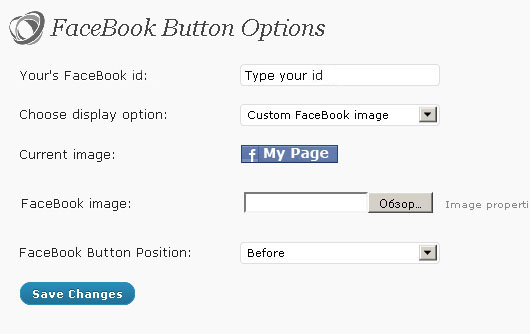
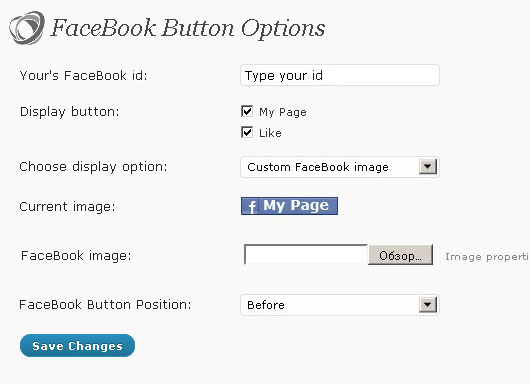
V2.10 - Added a possibility to turn off the display of the buttons. Turkish language file is added to the plugin. The bug with upload custom image for button is fixed.
git-svn-id: https://plugins.svn.wordpress.org/facebook-button-plugin/trunk@527401 b8457f37-d9ea-0310-8a92-e5e31aec5664

diff --git a/facebook-button-plugin.php b/facebook-button-plugin.php
@@ -4,7 +4,7 @@ Plugin Name: Facebook Button Plugin
 Plugin URI:  http://bestwebsoft.com/plugin/
 Description: Put Facebook Button in to your post.
 Author: BestWebSoft
-Version: 2.09
+Version: 2.10
 Author URI: http://bestwebsoft.com/
 License: GPLv2 or later
 */
@@ -44,7 +44,8 @@ if( ! function_exists( 'bws_add_menu_render' ) ) {
 			array( 'gallery-plugin\/gallery-plugin.php', 'Gallery', 'http://wordpress.org/extend/plugins/gallery-plugin/', 'http://bestwebsoft.com/plugin/gallery-plugin/', '/wp-admin/plugin-install.php?tab=search&type=term&s=Gallery+Plugin+bestwebsoft&plugin-search-input=Search+Plugins', '' ),
 			array( 'adsense-plugin\/adsense-plugin.php', 'Google AdSense Plugin', 'http://wordpress.org/extend/plugins/adsense-plugin/', 'http://bestwebsoft.com/plugin/google-adsense-plugin/', '/wp-admin/plugin-install.php?tab=search&type=term&s=Adsense+Plugin+bestwebsoft&plugin-search-input=Search+Plugins', 'admin.php?page=adsense-plugin.php' ),
 			array( 'custom-search-plugin\/custom-search-plugin.php', 'Custom Search Plugin', 'http://wordpress.org/extend/plugins/custom-search-plugin/', 'http://bestwebsoft.com/plugin/custom-search-plugin/', '/wp-admin/plugin-install.php?tab=search&type=term&s=Custom+Search+plugin+bestwebsoft&plugin-search-input=Search+Plugins', 'admin.php?page=custom_search.php' ),
-			array( 'quotes_and_tips\/quotes-and-tips.php', 'Quotes and Tips', 'http://wordpress.org/extend/plugins/quotes-and-tips/', 'http://bestwebsoft.com/plugin/quotes-and-tips/', '/wp-admin/plugin-install.php?tab=search&type=term&s=Quotes+and+Tips+bestwebsoft&plugin-search-input=Search+Plugins', 'admin.php?page=quotes-and-tips.php' )
+			array( 'quotes-and-tips\/quotes-and-tips.php', 'Quotes and Tips', 'http://wordpress.org/extend/plugins/quotes-and-tips/', 'http://bestwebsoft.com/plugin/quotes-and-tips/', '/wp-admin/plugin-install.php?tab=search&type=term&s=Quotes+and+Tips+bestwebsoft&plugin-search-input=Search+Plugins', 'admin.php?page=quotes-and-tips.php' ),
+			array( 'google-sitemap-plugin\/google-sitemap-plugin.php', 'Google sitemap plugin', 'http://wordpress.org/extend/plugins/google-sitemap-plugin/', 'http://bestwebsoft.com/plugin/google-sitemap-plugin/', '/wp-admin/plugin-install.php?tab=search&type=term&s=Google+sitemap+plugin+bestwebsoft&plugin-search-input=Search+Plugins', 'admin.php?page=google-sitemap-plugin.php' )
 		);
 		foreach($array_plugins as $plugins) {
 			if( 0 < count( preg_grep( "/".$plugins[0]."/", $active_plugins ) ) ) {
@@ -118,6 +119,8 @@ if( ! function_exists( 'fcbk_bttn_plgn_settings' ) ) {
 
 		$fcbk_bttn_plgn_options_array_default = array(
 			'fcbk_bttn_plgn_link'						=> '',
+			'fcbk_bttn_plgn_my_page'				=> 1,
+			'fcbk_bttn_plgn_like'						=> 1,
 			'fcbk_bttn_plgn_where'					=> '',
 			'fcbk_bttn_plgn_display_option' => '',
 			'fcbk_bttn_plgn_count_icon'			=> 1,
@@ -130,6 +133,7 @@ if( ! function_exists( 'fcbk_bttn_plgn_settings' ) ) {
 		$fcbk_bttn_plgn_options_array = get_option( 'fcbk_bttn_plgn_options_array' );
 
 		$fcbk_bttn_plgn_options_array = array_merge( $fcbk_bttn_plgn_options_array_default, $fcbk_bttn_plgn_options_array );
+		update_option( 'fcbk_bttn_plgn_options_array', $fcbk_bttn_plgn_options_array );
 	}
 }
 
@@ -138,6 +142,10 @@ if( ! function_exists( 'fcbk_bttn_plgn_settings_page' ) ) {
 	function fcbk_bttn_plgn_settings_page() 
 	{
 		global $fcbk_bttn_plgn_options_array;
+		$copy = false;
+		
+		if( @copy( plugin_dir_path( __FILE__ )."img/facebook-ico.jpg", plugin_dir_path( __FILE__ )."img/facebook-ico3.jpg" ) !== false )
+			$copy = true;
 
 		$message = "";
 		$error = "";
@@ -147,6 +155,8 @@ if( ! function_exists( 'fcbk_bttn_plgn_settings_page' ) ) {
 				$fcbk_bttn_plgn_options_array [ 'fcbk_bttn_plgn_link' ]			=	$_REQUEST [ 'fcbk_bttn_plgn_link' ];
 				$fcbk_bttn_plgn_options_array [ 'fcbk_bttn_plgn_where' ]		=	$_REQUEST [ 'fcbk_bttn_plgn_where' ];
 				$fcbk_bttn_plgn_options_array [ 'fcbk_bttn_plgn_display_option' ]	=	$_REQUEST [ 'fcbk_bttn_plgn_display_option' ];
+				$fcbk_bttn_plgn_options_array [ 'fcbk_bttn_plgn_my_page' ]	=	isset( $_REQUEST [ 'fcbk_bttn_plgn_my_page' ] ) ? 1 : 0 ;
+				$fcbk_bttn_plgn_options_array [ 'fcbk_bttn_plgn_like' ]			=	isset( $_REQUEST [ 'fcbk_bttn_plgn_like' ] ) ? 1 : 0 ;
 				if ( isset ( $_FILES [ 'uploadfile' ] [ 'tmp_name' ] ) &&  $_FILES [ 'uploadfile' ] [ 'tmp_name' ] != "" ) {		
 					$fcbk_bttn_plgn_options_array [ 'fcbk_bttn_plgn_count_icon' ]	=	$fcbk_bttn_plgn_options_array [ 'fcbk_bttn_plgn_count_icon' ] + 1;
 				}
@@ -206,12 +216,6 @@ if( ! function_exists( 'fcbk_bttn_plgn_settings_page' ) ) {
 		} 
 		?>
 	<div class="wrap">
-		<style>
-		.wrap #icon-options-general.icon32-bws
-		{
-			 background: url("../wp-content/plugins/facebook-button-plugin/img/icon_36.png") no-repeat scroll left top transparent;
-		}
-		</style>
 		<div class="icon32 icon32-bws" id="icon-options-general"></div>
 		<h2><?php echo __( "FaceBook Button Options", 'facebook' ); ?></h2>
 		<div class="updated fade" <?php if( ! isset( $_REQUEST['fcbk_bttn_plgn_form_submit'] ) || $error != "" ) echo "style=\"display:none\""; ?>><p><strong><?php echo $message; ?></strong></p></div>
@@ -225,6 +229,13 @@ if( ! function_exists( 'fcbk_bttn_plgn_settings_page' ) ) {
 							<input name='fcbk_bttn_plgn_link' type='text' value='<?php echo $fcbk_bttn_plgn_options_array [ 'fcbk_bttn_plgn_link' ] ?>' style="width:200px;" />		
 						</td>
 					</tr>
+					<tr valign="top">
+						<th scope="row"><?php _e( "Display button:", 'facebook' ); ?></th>
+						<td>
+							<input name='fcbk_bttn_plgn_my_page' type='checkbox' value='1' <?php if( $fcbk_bttn_plgn_options_array [ 'fcbk_bttn_plgn_my_page' ] == 1 ) echo 'checked="checked "'; ?>/> <label for="fcbk_bttn_plgn_my_page"><?php echo __( "My Page", 'captcha' ); ?></label><br />
+							<input name='fcbk_bttn_plgn_like' type='checkbox' value='1' <?php if( $fcbk_bttn_plgn_options_array [ 'fcbk_bttn_plgn_like' ] == 1 ) echo 'checked="checked "'; ?>/> <label for="fcbk_bttn_plgn_like"><?php echo __( "Like", 'captcha' ); ?></label><br />
+						</td>
+					</tr>
 					<tr>
 						<th>
 							<?php echo __( "Choose display option:", 'facebook' ); ?>
@@ -232,7 +243,9 @@ if( ! function_exists( 'fcbk_bttn_plgn_settings_page' ) ) {
 						<td>
 							<select name="fcbk_bttn_plgn_display_option" onchange="if ( this . value == 'custom' ) { getElementById ( 'fcbk_bttn_plgn_display_option_custom' ) . style.display = 'block'; } else { getElementById ( 'fcbk_bttn_plgn_display_option_custom' ) . style.display = 'none'; }" style="width:200px;" >
 								<option <?php if ( $fcbk_bttn_plgn_options_array [ 'fcbk_bttn_plgn_display_option' ] == 'standart' ) echo 'selected="selected"'; ?> value="standart"><?php echo __( "Standart FaceBook image", 'facebook' ); ?></option>
+								<?php if( $copy || $fcbk_bttn_plgn_options_array [ 'fcbk_bttn_plgn_display_option' ] == 'custom' ) { ?>
 								<option <?php if ( $fcbk_bttn_plgn_options_array [ 'fcbk_bttn_plgn_display_option' ] == 'custom' ) echo 'selected="selected"'; ?> value="custom"><?php echo __( "Custom FaceBook image", 'facebook' ); ?></option>
+								<?php } ?>
 							</select>
 						</td>
 					</tr>
@@ -315,18 +328,23 @@ if( ! function_exists( 'fcbk_bttn_plgn_display_button' ) ) {
 		$url				=	$fcbk_bttn_plgn_options_array [ 'fcbk_bttn_plgn_link' ];	
 		$permalink_post		=	get_permalink ( $post->ID );
 		//Button
-		$button				=	'<div id="fcbk_share">
-									<div class="fcbk_button">
+		$button				=	'<div id="fcbk_share">';
+		if( $fcbk_bttn_plgn_options_array [ 'fcbk_bttn_plgn_my_page' ] == 1 ) {
+			$button .=	'<div class="fcbk_button">
 										<a name="fcbk_share"	href="http://www.facebook.com/' . $url . '"	target="blank">
 											<img src="' . $img . '" alt="Fb-Button" />
 										</a>	
-									</div>
-									<div class="fcbk_like">
+									</div>';
+		}
+		if( $fcbk_bttn_plgn_options_array [ 'fcbk_bttn_plgn_like' ] == 1 ) {
+			$button .=	'<div class="fcbk_like">
 										<div id="fb-root"></div>
 										<script src="http://connect.facebook.net/en_US/all.js#appId=224313110927811&amp;xfbml=1"></script>
 										<fb:like href="' . $permalink_post . '" send="false" layout="button_count" width="450" show_faces="false" font=""></fb:like>
-									</div>					 
-								</div>';
+									</div>';
+		}				
+		
+		$button .= '</div>';
 		//Indication where show FaceBook Button depending on selected item in admin page.
 		if ( $fcbk_bttn_plgn_where == 'before' ) {
 			return $button . $content; 
@@ -350,18 +368,23 @@ if( ! function_exists( 'fcbk_bttn_plgn_shortcode' ) ) {
 		$img				=	$fcbk_bttn_plgn_options_array [ 'fb_img_link' ];
 		$url				=	$fcbk_bttn_plgn_options_array [ 'fcbk_bttn_plgn_link' ];	
 		$permalink_post		=	get_permalink ( $post_ID );
-		$button				= 	'<div id="fb_share" >
-									<div style="float:left;margin-right:10px;" >
-										<a name="fb_share"	href="http://www.facebook.com/'.$url.'"	target="blank">
-											<img src="'.$img.'" alt="Fb-Button" />
-										</a>
-									</div>
-									<div>
+		$button				=	'<div id="fcbk_share">';
+		if( $fcbk_bttn_plgn_options_array [ 'fcbk_bttn_plgn_my_page' ] == 1 ) {
+			$button .=	'<div class="fcbk_button">
+										<a name="fcbk_share"	href="http://www.facebook.com/' . $url . '"	target="blank">
+											<img src="' . $img . '" alt="Fb-Button" />
+										</a>	
+									</div>';
+		}
+		if( $fcbk_bttn_plgn_options_array [ 'fcbk_bttn_plgn_like' ] == 1 ) {
+			$button .=	'<div class="fcbk_like">
 										<div id="fb-root"></div>
 										<script src="http://connect.facebook.net/en_US/all.js#appId=224313110927811&amp;xfbml=1"></script>
-										<fb:like href="'.$permalink_post.'" send="false" layout="button_count" width="400" show_faces="false" font=""></fb:like>
-									</div>					 
-								</div>';	
+										<fb:like href="' . $permalink_post . '" send="false" layout="button_count" width="450" show_faces="false" font=""></fb:like>
+									</div>';
+		}				
+		
+		$button .= '</div>';		 
 		return $button;	
 	}
 }
